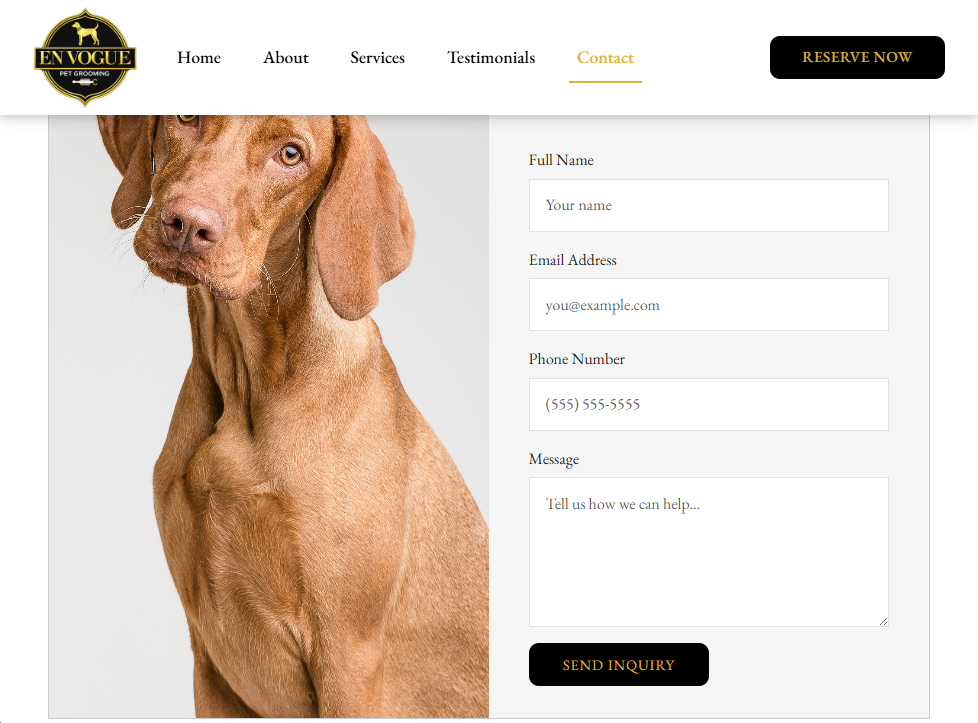
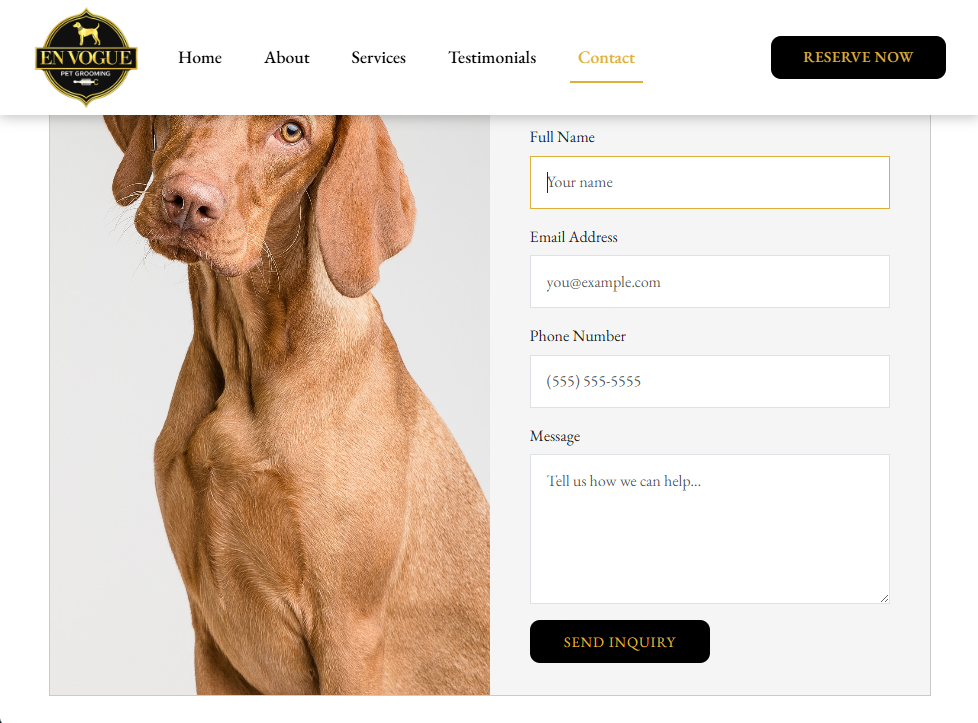
Added logic to submit contact form.

diff --git a/client/src/pages/Contact/Contact.jsx b/client/src/pages/Contact/Contact.jsx
@@ -1,12 +1,78 @@
+import { useState, useEffect } from "react";
 import hero from "./Images/contact_img.jpg";
 import "./Contact.css";
+import { submitContactForm } from "../../api/Contact/contact";
 
 export default function Contact() {
+    const [formData, setFormData] = useState({
+        name: "",
+        email: "",
+        phone: "",
+        message: ""
+    });
+
+    const [successMessage, setSuccessMessage] = useState("");
+    const [errorMessage, setErrorMessage] = useState("");
+    const [isSubmitting, setIsSubmitting] = useState(false);
+
+    useEffect(() => {
+        if (!successMessage) return;
+
+        const timer = setTimeout(() => {
+            setSuccessMessage("");
+        }, 8000);
+        return () => clearTimeout(timer);
+    }, [successMessage]);
+
+    const handleChange = (e) => {
+        setFormData({
+            ...formData,
+            [e.target.name]: e.target.value
+        });
+    };
+
+    const handleSubmit = async (e) => {
+        e.preventDefault();
+
+        const form = e.currentTarget;
+
+        setSuccessMessage("");
+        setErrorMessage("");
+
+        if(!form.checkValidity()) {
+            e.stopPropagation();
+            form.classList.add("was-validated");
+            return;
+        }
+
+
+        try {
+            setIsSubmitting(true);
+
+            await submitContactForm(formData);
+
+            setSuccessMessage("We've received your message! We'll be in touch, thank you.");
+
+            setFormData({
+                name: "",
+                email: "",
+                phone: "",
+                message: ""
+            });
+
+            form.classList.remove("was-validated");
+        } catch (error) {
+            console.error("Error submitting contact form:", error.message);
+            setErrorMessage(error.message || "Something went wrong. Please try again.");
+        } finally {
+            setIsSubmitting(false);
+        }
+    };
+
     return (
         <section className="contact-page">
             <div className="contact-card card">
                 <div className="row g-0 align-items-stretch">
-
                     <div className="col-12 col-md-6 contact-image-col">
                         <img
                             src={hero}
@@ -27,54 +93,94 @@ export default function Contact() {
                                 experience or have a question about our services, send us a message below.
                             </p>
 
-                            <form className="contact-form">
+                            {successMessage && (
+                                <p className="contact-success-message text-light bg-success">{successMessage}</p>
+                            )}
+
+                            {errorMessage && (
+                                <p className="contact-error-message text-light bg-danger">{errorMessage}</p>
+                            )}
+
+                            <form className="contact-form needs-validation" onSubmit={handleSubmit} noValidate>
                                 <div className="mb-3">
                                     <label htmlFor="name" className="form-label">Full Name</label>
                                     <input
                                         type="text"
+                                        name="name"
+                                        value={formData.name}
+                                        onChange={handleChange}
                                         className="form-control"
                                         id="name"
                                         placeholder="Your name"
+                                        required
                                     />
+                                    <div className="invalid-feedback">
+                                        Please enter your name. 
+                                    </div>
                                 </div>
 
                                 <div className="mb-3">
                                     <label htmlFor="email" className="form-label">Email Address</label>
                                     <input
                                         type="email"
+                                        name="email"
+                                        value={formData.email}
+                                        onChange={handleChange}
                                         className="form-control"
                                         id="email"
                                         placeholder="you@example.com"
+                                        required
                                     />
+                                    <div className="invalid-feedback">
+                                        Please enter a valid email address.
+                                    </div>
                                 </div>
 
                                 <div className="mb-3">
                                     <label htmlFor="phone" className="form-label">Phone Number</label>
                                     <input
                                         type="tel"
+                                        name="phone"
+                                        value={formData.phone}
+                                        onChange={handleChange}
                                         className="form-control"
                                         id="phone"
                                         placeholder="(555) 555-5555"
+                                        pattern="^\\+?[0-9()\\-\\s]+$"
+                                        required
                                     />
+                                    <div className="invalid-feedback">
+                                        Please enter a valid phone number. 
+                                    </div>
                                 </div>
 
                                 <div className="mb-3">
                                     <label htmlFor="message" className="form-label">Message</label>
                                     <textarea
                                         className="form-control"
+                                        name="message"
+                                        value={formData.message}
+                                        onChange={handleChange}
                                         id="message"
                                         rows="5"
                                         placeholder="Tell us how we can help..."
+                                        required
                                     ></textarea>
+                                    <div className="invalid-feedback">
+                                        Please enter a message you'd like to send.
+                                    </div>
                                 </div>
 
-                                <button type="submit" className="btn contact-submit-btn">
-                                    Send Inquiry
+                                <button
+                                    type="submit"
+                                    className="btn contact-submit-btn"
+                                    disabled={isSubmitting}
+                                >
+                                    {isSubmitting ? "Sending..." : "Send Inquiry"}
                                 </button>
                             </form>
                         </div>
                     </div>
-
                 </div>
             </div>
         </section>

diff --git a/client/src/api/Contact/contact.js b/client/src/api/Contact/contact.js
@@ -1,0 +1,11 @@
+import axios from "../Axios/axios";
+
+export async function submitContactForm(formData) {
+    try {
+        const res = await axios.post("/messages", formData);
+        return res.data;
+    } catch (error) {
+        const message = error.response?.data?.message || "Failed to send message.";
+        throw new Error(message);
+    }
+}

diff --git a/client/src/pages/Services/Services.jsx b/client/src/pages/Services/Services.jsx
@@ -1,5 +1,5 @@
 import {useEffect, useState} from "react";
-import { getServices } from "../../api/services";
+import { getServices } from "../../api/Services/services";
 import ServiceCard from "../../components/Services/ServiceCard";
 import "./Services.css";
 

diff --git a/client/src/api/Services/services.js b/client/src/api/Services/services.js
@@ -1,4 +1,4 @@
-import api from "./axios";
+import api from "../Axios/axios";
 
 export async function getServices() {
     const res = await api.get("/services");
